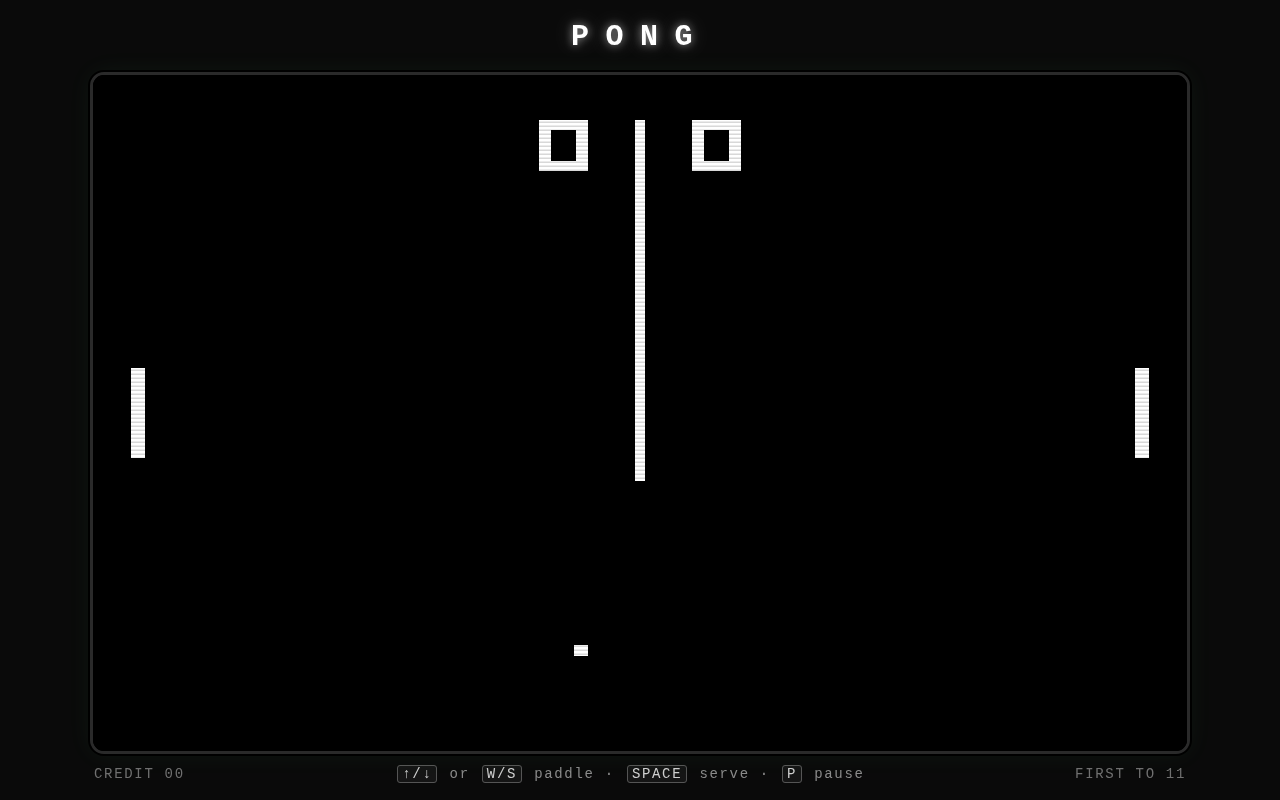
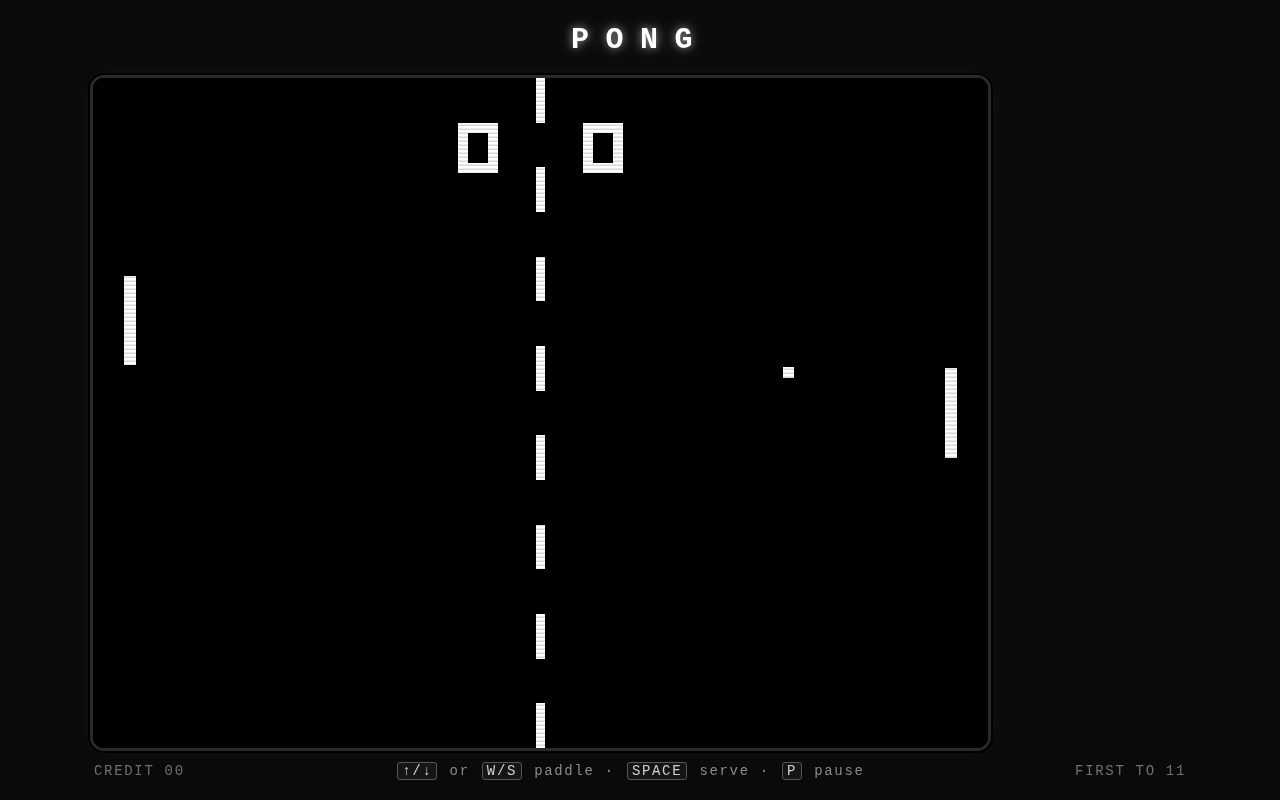
Fix keyboard + wheel controls, midline, and title layout
- Keyboard (W/S/arrows): the offset was written to a local instead of
  app.humanTargetY, so held keys never moved the paddle. Now integrated
  into the shared target; works during serve countdown too.
- Mouse wheel steers the paddle (handles wheel/line/page delta modes).
- Midline: dashes at 40*i+40 were gap-less and stopped at 60% height.
  Now 8 dashed segments spanning the full 600px, hidden on the title
  screen like the cabinet.
- Title screen: PONG overlapped FIRST TO 11 WINS (280 vs 270); rows
  spaced out with no intersecting glyphs.
- Regenerated PWA screenshots.

diff --git a/game.js b/game.js
@@ -467,6 +467,20 @@ const PongCore = (() => {
   window.addEventListener('mousemove', (ev) => pressMove(ev.clientY));
   window.addEventListener('mouseup', (ev) => pressEnd(ev.clientX, ev.clientY));
 
+  // Mouse wheel: scroll up/down to steer, so no dragging is needed either.
+  // Trackpads send many small deltas, wheels send ~100 per notch — using
+  // the raw delta gives both a natural feel.
+  canvas.addEventListener('wheel', (ev) => {
+    ev.preventDefault();
+    audio.unlock();
+    if (app.screen !== 'play' && app.screen !== 'serve') return;
+    const d = ev.deltaMode === 1 ? ev.deltaY * 16
+            : ev.deltaMode === 2 ? ev.deltaY * PongCore.H
+            : ev.deltaY;
+    app.humanTargetY = Math.max(0,
+      Math.min(PongCore.H - PongCore.PADDLE_H, app.humanTargetY + d * 1.1));
+  }, { passive: false });
+
   // ---- render -----------------------------------------------------------
   function render() {
     const s = app.state;
@@ -474,9 +488,12 @@ const PongCore = (() => {
     ctx.fillRect(0, 0, PongCore.W, PongCore.H);
     ctx.fillStyle = '#fff';
 
-    // centre dashed line, 8 dashes like the original
-    for (let i = 0; i < 8; i++) {
-      ctx.fillRect(PongCore.W / 2 - 4, 40 * i + 40, 8, 40);
+    // Centre dashed line, full height. The title/credit screen hides it, as
+    // in the cabinet (no centre line behind the attract text).
+    if (app.screen !== 'title') {
+      for (let i = 0; i < 8; i++) {
+        ctx.fillRect(PongCore.W / 2 - 4, i * 80, 8, 40);
+      }
     }
 
     // paddles
@@ -496,16 +513,16 @@ const PongCore = (() => {
 
     // ---- overlays ------------------------------------------------------
     if (app.screen === 'title') {
-      drawText('PONG', PongCore.W / 2, 150, 26, '#fff');
-      drawText('FIRST TO 11 WINS', PongCore.W / 2, 270, 8, '#fff');
-      drawText(DIFF[app.aiLevel], PongCore.W / 2, 330, 12, '#fff');
-      drawText('<', 120, 332, 10, '#fff');
-      drawText('>', 680, 332, 10, '#fff');
-      drawText('TAP SIDE TO CHANGE', PongCore.W / 2, 390, 6, '#fff');
+      drawText('PONG', PongCore.W / 2, 120, 26, '#fff');
+      drawText('FIRST TO 11 WINS', PongCore.W / 2, 290, 8, '#fff');
+      drawText(DIFF[app.aiLevel], PongCore.W / 2, 360, 12, '#fff');
+      drawText('<', 120, 362, 10, '#fff');
+      drawText('>', 680, 362, 10, '#fff');
+      drawText('TAP SIDE TO CHANGE', PongCore.W / 2, 440, 6, '#fff');
       if (Math.floor(performance.now() / 500) % 2 === 0) {
-        drawText('TAP TO START', PongCore.W / 2, 450, 9, '#fff');
+        drawText('TAP TO START', PongCore.W / 2, 490, 9, '#fff');
       }
-      drawText(audio.isOn() ? 'SOUND ON' : 'SOUND OFF', PongCore.W / 2, 510, 5, '#fff');
+      drawText(audio.isOn() ? 'SOUND ON' : 'SOUND OFF', PongCore.W / 2, 545, 5, '#fff');
     } else if (app.screen === 'paused') {
       drawText('PAUSED', PongCore.W / 2, 260, 14, '#fff');
       drawText('TAP TO RESUME', PongCore.W / 2, 340, 7, '#fff');
@@ -545,11 +562,21 @@ const PongCore = (() => {
       return;
     }
 
-    let ty = app.humanTargetY;
-    if (app.screen === 'play' && !dragging) {
-      if (keys.has('ArrowUp') || keys.has('KeyW')) ty = app.humanTargetY - PongCore.HUMAN_SPEED * dt;
-      if (keys.has('ArrowDown') || keys.has('KeyS')) ty = app.humanTargetY + PongCore.HUMAN_SPEED * dt;
+    // Keyboard: integrate into the shared target so held keys keep moving
+    // the paddle frame after frame (writing the offset to a local instead
+    // of the target made the keys do nothing). Works during the serve
+    // countdown too, so the player can pre-position before the ball appears.
+    if ((app.screen === 'play' || app.screen === 'serve') && !dragging) {
+      if (keys.has('ArrowUp') || keys.has('KeyW')) {
+        app.humanTargetY -= PongCore.HUMAN_SPEED * dt;
+      }
+      if (keys.has('ArrowDown') || keys.has('KeyS')) {
+        app.humanTargetY += PongCore.HUMAN_SPEED * dt;
+      }
+      app.humanTargetY = Math.max(0,
+        Math.min(PongCore.H - PongCore.PADDLE_H, app.humanTargetY));
     }
+    const ty = app.humanTargetY;
     if (app.screen === 'play') {
       const events = PongCore.step(app.state, dt, ty, app.aiLevel);
       for (const ev of events) {
